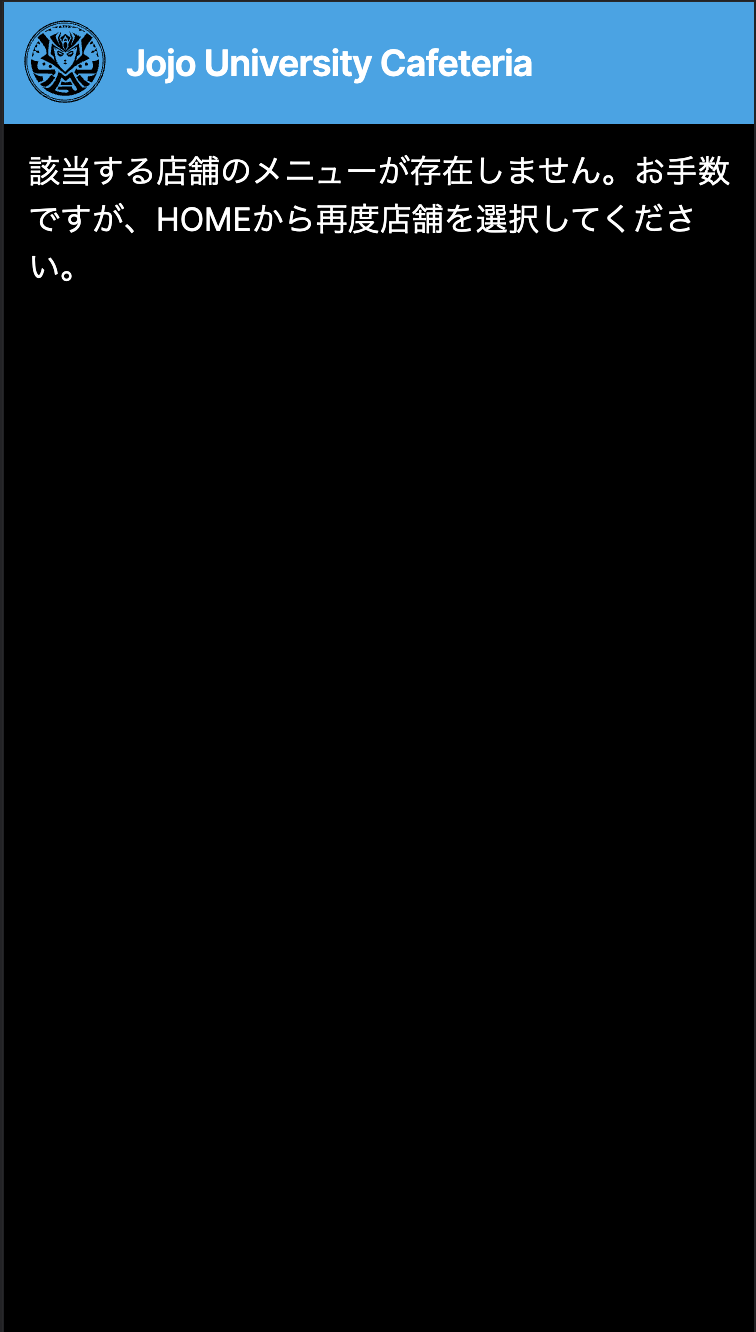
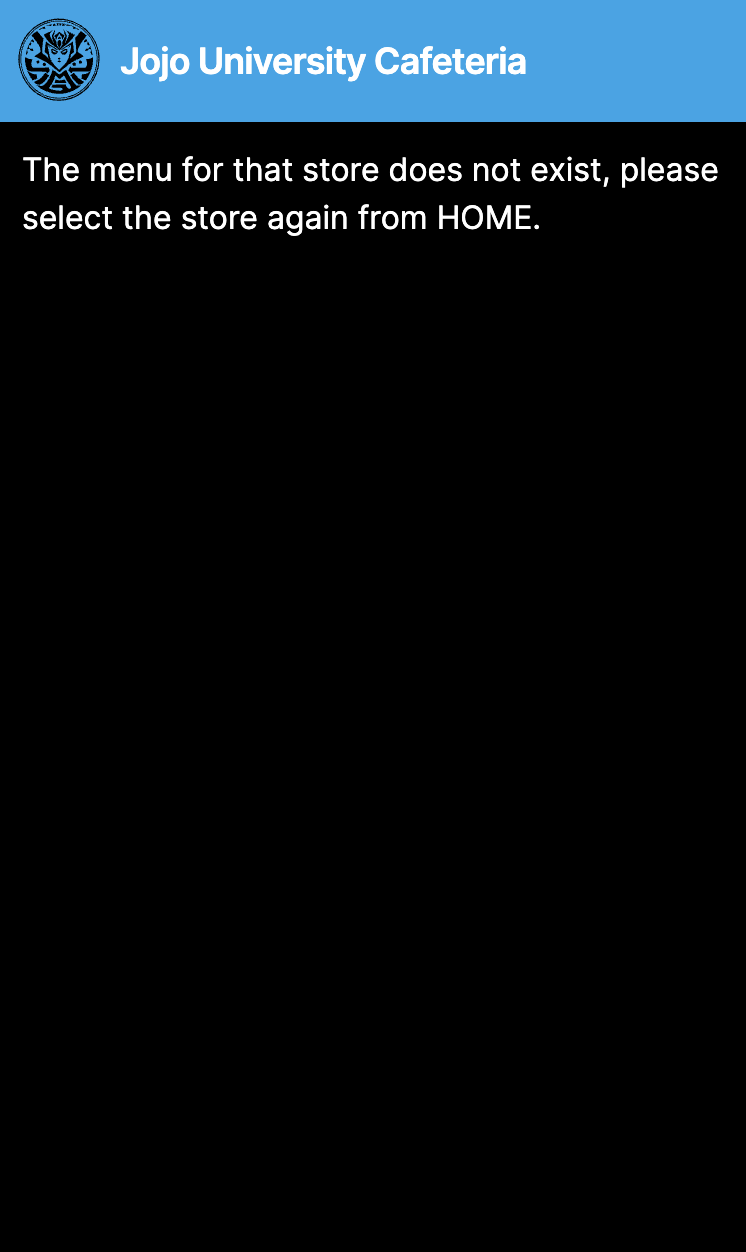
error messages to English

Changed region(s): [[0.0, 0.0, 1.0, 1.0]]

diff --git a/docs/ja/2nd.md b/docs/ja/2nd.md
@@ -757,28 +757,28 @@ export default function StoreMenu({ params }: { params: { storeId: string } }) {
   // Get the corresponding menu from the menu list
   const storeMenus = menus.filter((menu) => menu.storeId === storeId);
 
-  // When there is no matching store
+  // When the store does not exist
   if (!store) {
     return (
       <div>
         <Navbar />
         <div className="m-3">
           <p>
-            該当する店舗が存在しません。お手数ですが、HOMEから再度店舗を選択してください。
+            The store does not exist, please select the store again from HOME.
           </p>
         </div>
       </div>
     );
   }
 
-  // When there is no matching menu
+  // When the menu for the store does not exist
   if (storeMenus.length === 0) {
     return (
       <div>
         <Navbar />
         <div className="m-3">
           <p>
-            該当する店舗のメニューが存在しません。お手数ですが、HOMEから再度店舗を選択してください。
+            The menu for that store does not exist, please select the store again from HOME.
           </p>
         </div>
       </div>
@@ -1102,28 +1102,28 @@ export default async function StoreMenu({
   const store = await getStore(storeId);
   const menus = await getMenus(storeId);
 
-  // 該当する店舗が存在しないとき
+  // When the store does not exist
   if (!store) {
     return (
       <div>
         <Navbar />
         <div className="m-3">
           <p>
-            該当する店舗が存在しません。お手数ですが、HOMEから再度店舗を選択してください。
+            The store does not exist, please select the store again from HOME.
           </p>
         </div>
       </div>
     );
   }
 
-  // 該当するメニューが存在しないとき
+  // When the menu for the store does not exist
   if (menus.length === 0) {
     return (
       <div>
         <Navbar />
         <div className="m-3">
           <p>
-            該当する店舗のメニューが存在しません。お手数ですが、HOMEから再度店舗を選択してください。
+            The menu for that store does not exist, please select the store again from HOME.
           </p>
         </div>
       </div>
@@ -1163,15 +1163,11 @@ export default async function StoreMenu({
 
 メニュー一覧画面にてメニューを選択後に表示されるメニュー詳細画面を実装します。
 
-TODO 見直し
-メニュー詳細画面を実装すると、ディレクトリ構成は以下となります。
+メニュー詳細画面を実装すると、ディレクトリ構成は以下となります(関連するファイルのみ抜粋)。
 
 ```sh
 dish-delight/frontend
-├── lib/
-│   ├── api.ts                 // backend APIを呼び出す処理を集める
 ├── app/
-│   ├── _app.ts
 │   ├── index.ts
 │   └── stores/
 │       ├── [storeId]/
@@ -1181,20 +1177,19 @@ dish-delight/frontend
 │               └── page.tsx
 ├── components/
 │   └── Navbar.tsx
+├── lib/
+│   ├── api.ts                 // backend APIを呼び出す処理を集める
+│   └── constants.ts
 ├── public/
+│   ├── aroy_logo.jpeg
+│   ├── buono_logo.jpeg
 │   ├── logo_jojo_univ.svg
-│   ├── sakura_tei_logo.jpeg
-│   ├── xxxxx_logo.jpeg        // TBD
-│   └── yyyyy_logo.jpeg        // TBD
+│   └── sakura_tei_logo.jpeg
 ├── styles/
 │   └── globals.css
+├── next.config.js
 └── tailwind.config.js
 ```
-
-TODO
-TIPS:
-props よりも fetch した方が良さそう。Reactが後ろでメモ化してくれるから
-<https://nextjs.org/docs/app/building-your-application/caching#request-memoization>
 
 `dish-delight/frontend/lib/api.tsx`を作成し、以下のコードを最下部に加えます:
 
@@ -1226,28 +1221,28 @@ export default async function Menu({
   const store = await getStore(storeId);
   const menu = await getMenu(storeId, menuId);
 
-  // 該当する店舗が存在しないとき
+  // When the store does not exist
   if (!store) {
     return (
       <div>
         <Navbar />
         <div className="m-3">
           <p>
-            該当する店舗が存在しません。お手数ですが、HOMEから再度店舗を選択してください。
+            The store does not exist, please select the store again from HOME.
           </p>
         </div>
       </div>
     );
   }
 
-  // 該当するメニューが存在しないとき
+  // When the menu for the store does not exist
   if (!menu) {
     return (
       <div>
         <Navbar />
         <div className="m-3">
           <p>
-            該当する店舗のメニューが存在しません。お手数ですが、HOMEから再度店舗を選択してください。
+            The menu for that store does not exist, please select the store again from HOME.
           </p>
         </div>
       </div>
@@ -1294,7 +1289,7 @@ export default async function Menu({
 
 - メニュー一覧画面のいずれかのメニューのCardをクリックすると、メニュー詳細画面に遷移すること
   - 該当のメニュー画像や説明、Optionなどが表示されること
-- Navbarの"HOME"を押すと HOME 画面に、"MENUS"を押すとメニュー一覧画面に遷移すること
+- Navbarの`HOME`を押すとHOME画面に、`MENUS`を押すとメニュー一覧画面に遷移すること
 - 店舗やメニューが存在しない場合のエラー画面
   - イメージはメニュー一覧画面と同じ
 
@@ -1314,8 +1309,8 @@ export default async function Menu({
 
 export const DATA_NOT_FOUND_MESSAGE = {
   STORE:
-    "該当する店舗が存在しません。お手数ですが、HOMEから再度店舗を選択してください。",
-  MENU: "該当する店舗のメニューが存在しません。お手数ですが、HOMEから再度店舗を選択してください。",
+    "The store does not exist, please select the store again from HOME.",
+  MENU: "The menu for that store does not exist, please select the store again from HOME.",
 };
 ```
 
@@ -1362,12 +1357,12 @@ export default async function StoreMenu({
   const store = await getStore(storeId);
   const menus = await getMenus(storeId);
 
-  // 該当する店舗が存在しないとき
+  // When the store does not exist
   if (!store) {
     return <DataNotFound message={DATA_NOT_FOUND_MESSAGE.STORE} />;
   }
 
-  // 該当するメニューが存在しないとき
+  // When the menu for the store does not exist
   if (menus.length === 0) {
     return <DataNotFound message={DATA_NOT_FOUND_MESSAGE.MENU} />;
   }
@@ -1419,12 +1414,12 @@ export default async function Menu({
   const store = await getStore(storeId);
   const menu = await getMenu(storeId, menuId);
 
-  // 該当する店舗が存在しないとき
+  // When the store does not exist
   if (!store) {
     return <DataNotFound message={DATA_NOT_FOUND_MESSAGE.STORE} />;
   }
 
-  // 該当するメニューが存在しないとき
+  // When the menu does not exist
   if (!menu) {
     return <DataNotFound message={DATA_NOT_FOUND_MESSAGE.MENU} />;
   }
